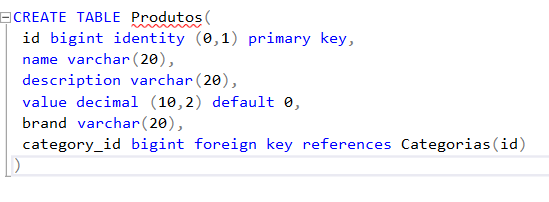
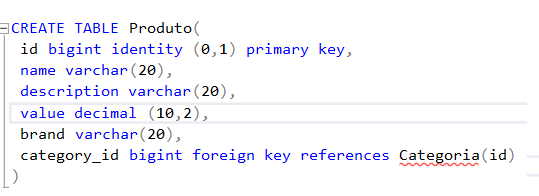
config (WebAPi) trocando nome dos bancos

Changed region(s): [[0.0, 0.0306, 0.9796, 0.8878], [0.0297, 0.8878, 0.0594, 0.9184], [0.0, 0.9184, 0.0297, 0.949]]

diff --git a/WebApiAlternativa/WebApiAlternativa/Entities/Product.cs b/WebApiAlternativa/WebApiAlternativa/Entities/Product.cs
@@ -2,13 +2,13 @@
 
 namespace WebApiAlternativa.Entities
 {
-    [Table("Produtos")]
+    [Table("Produto")]
     public class Product:BaseEntity 
     {  
         public decimal? Value { get; set; }
         public string Brand { get; set; }
 
-        [ForeignKey("Categorias")]      
+        [ForeignKey("Categoria")]      
         [Column("category_id")]
         public long? CategoryId { get; set; }
         public virtual Category Category { get; set; }

diff --git a/WebApiAlternativa/WebApiAlternativa/Startup.cs b/WebApiAlternativa/WebApiAlternativa/Startup.cs
@@ -72,7 +72,7 @@ namespace WebApiAlternativa
             services.AddScoped<IProductBusiness, ProductBusiness>();
             services.AddScoped(typeof(IRepository<>), typeof(Repository<>));
         }
-        // This method gets called by the runtime. Use this method to configure the HTTP request pipeline.
+       
         public void Configure(IApplicationBuilder app, IWebHostEnvironment env)
         {
             if (env.IsDevelopment())

diff --git a/WebApiAlternativa/WebApiAlternativa/Entities/Category.cs b/WebApiAlternativa/WebApiAlternativa/Entities/Category.cs
@@ -2,7 +2,7 @@
 
 namespace WebApiAlternativa.Entities
 {
-    [Table("Categorias")]
+    [Table("Categoria")]
     public class Category :BaseEntity
     {        
     }
